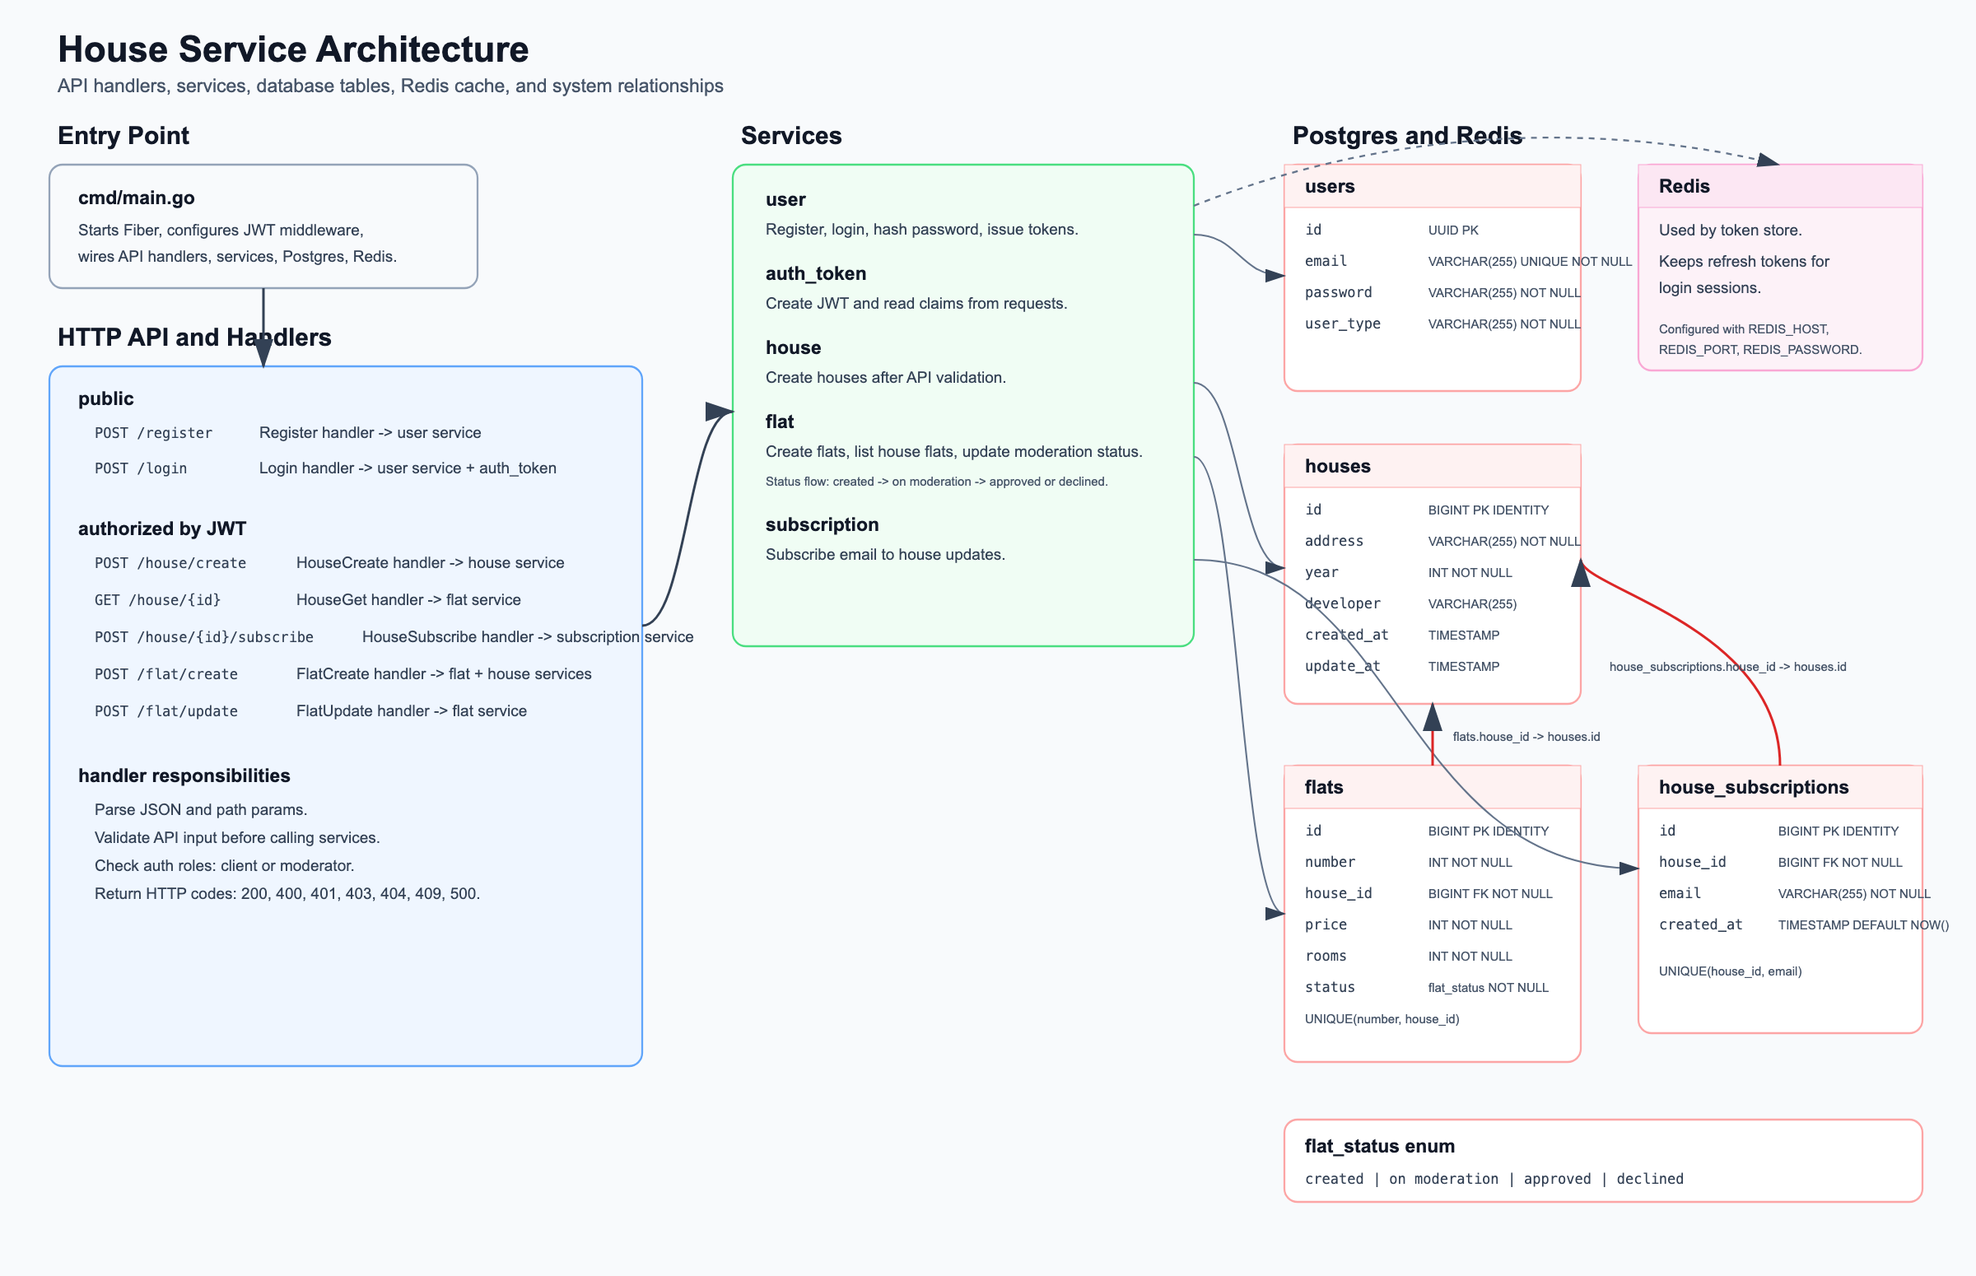
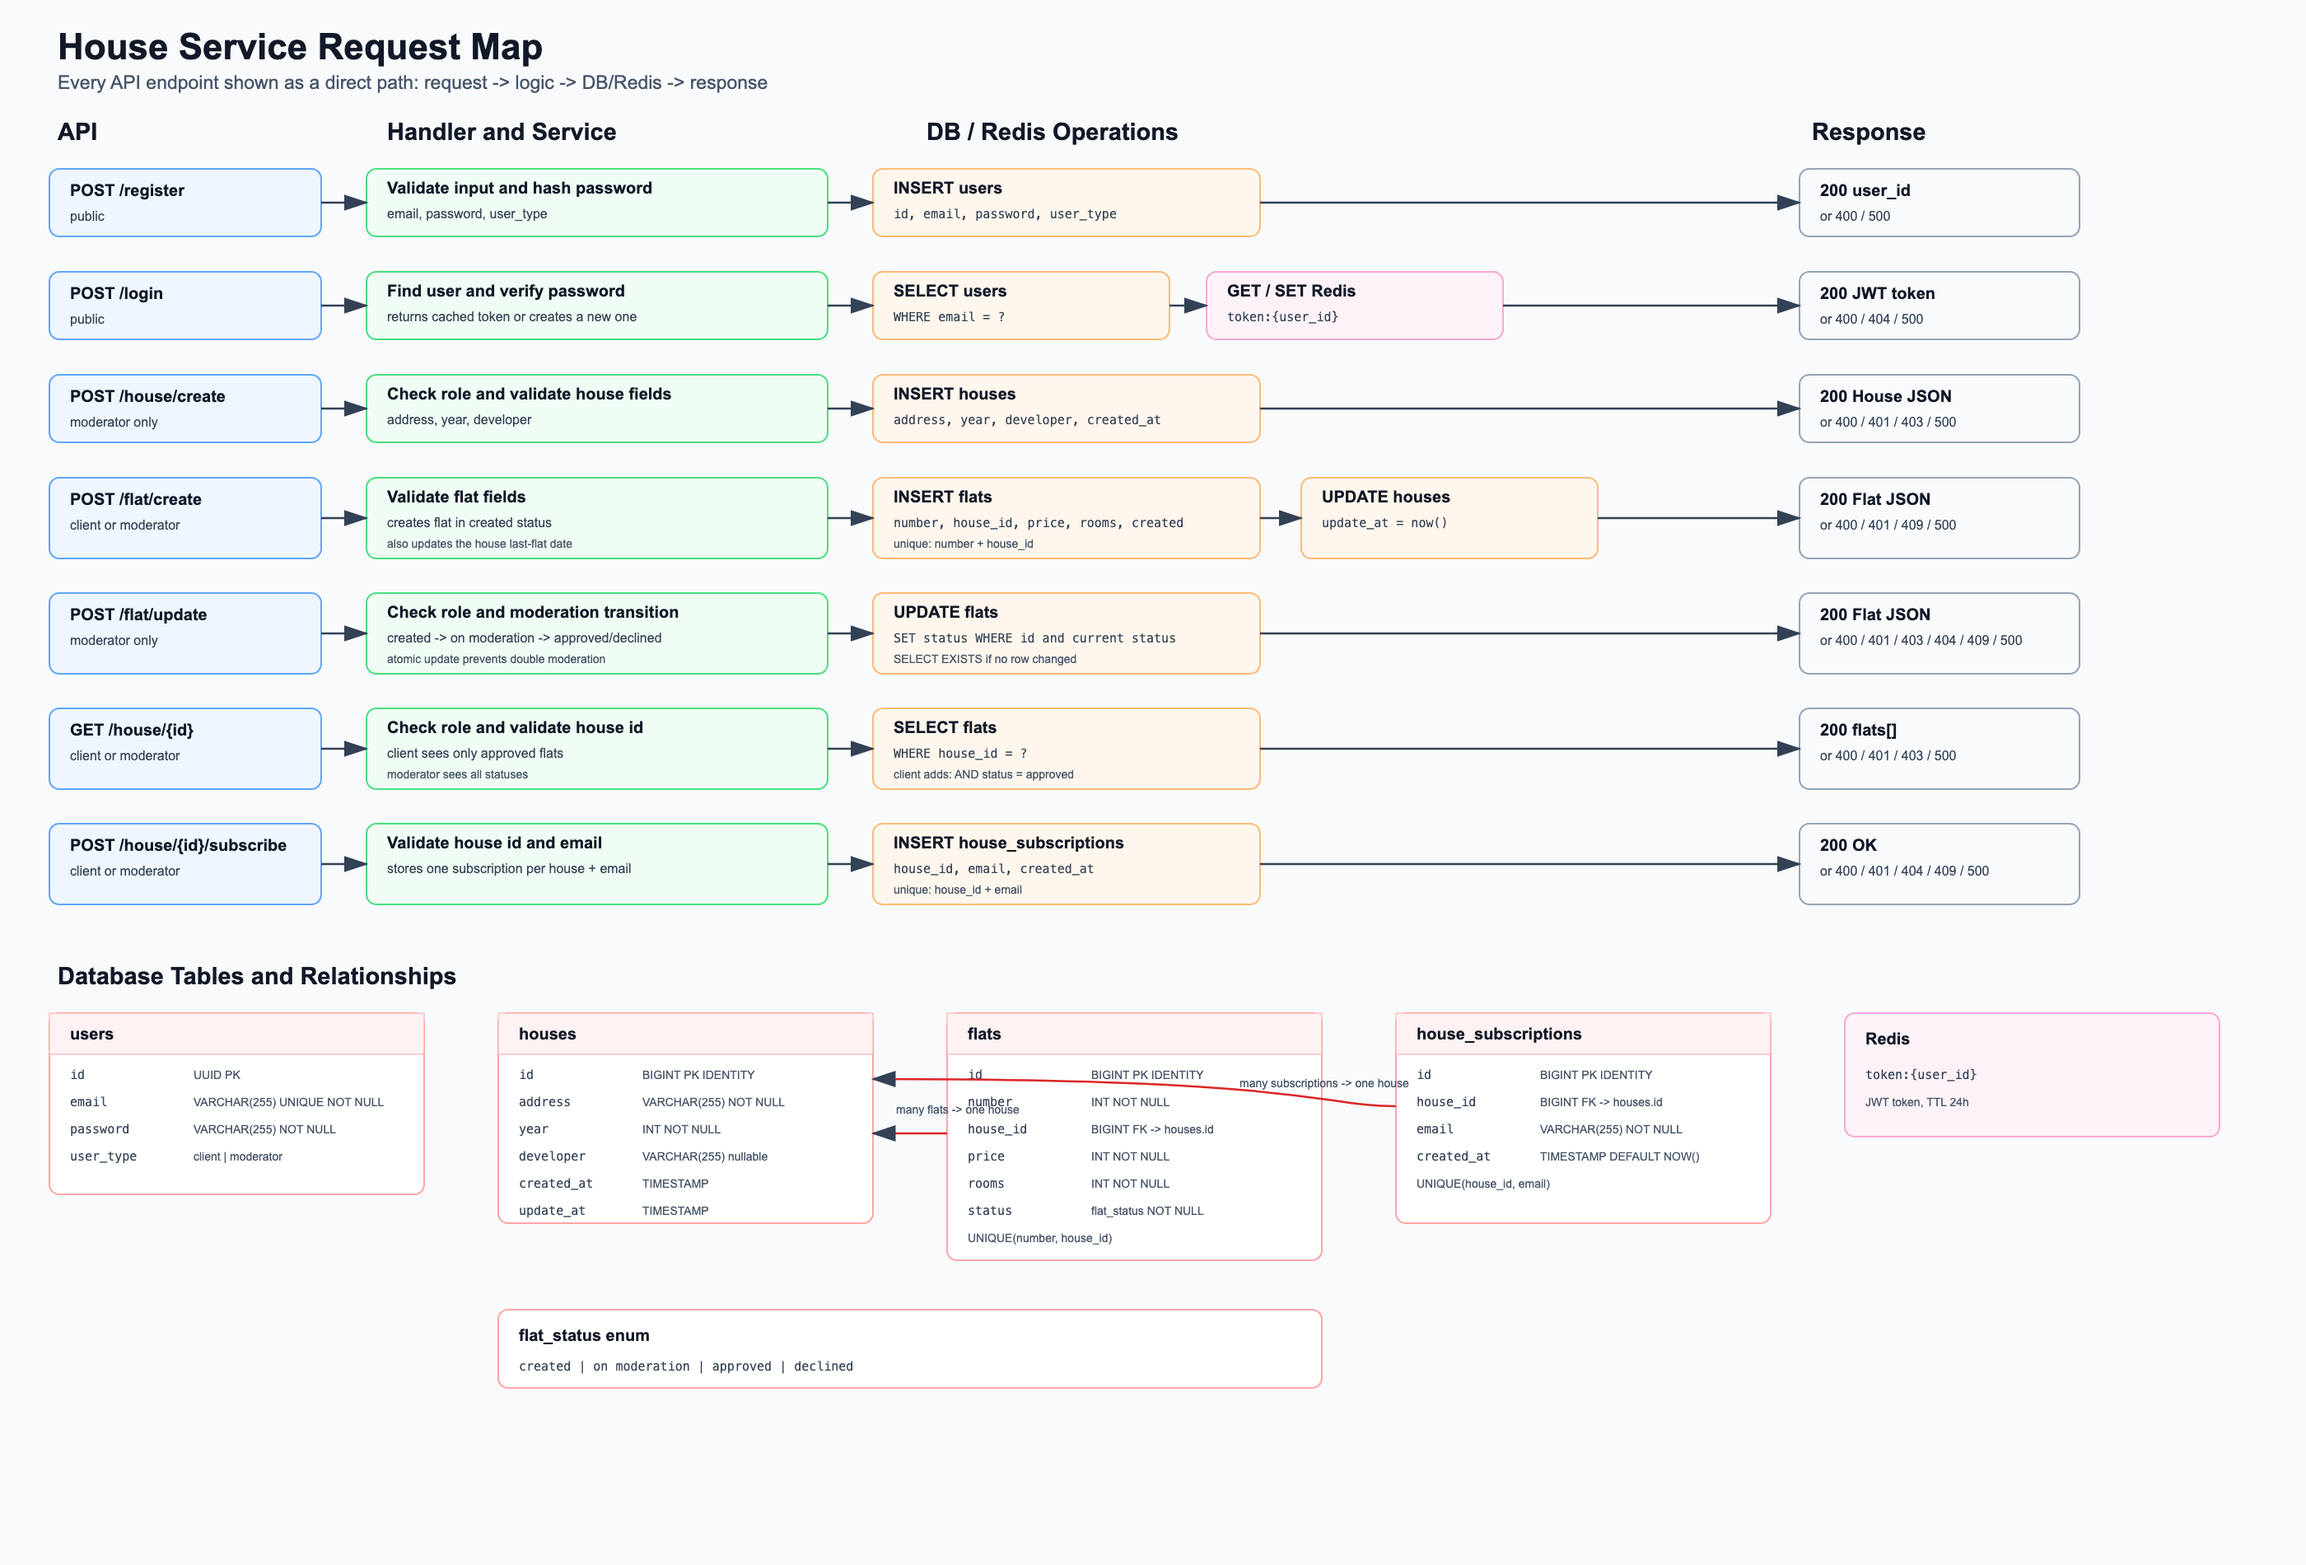
Update request map and model comments

diff --git a/internal/models/house.go b/internal/models/house.go
@@ -1,16 +1,16 @@
 package models
 
-type HouseID int // House identifier.
+type HouseID int // Идентификатор дома.
 
 func (h HouseID) Int() int {
 	return int(h)
 }
 
 type House struct {
-	ID        HouseID `db:"id"         example:"12345"`                           // House identifier.
-	Address   string  `db:"address"    example:"Лесная улица, 7, Москва, 125196"` // House address.
-	Year      int     `db:"year"       example:"2000"`                            // House construction year.
-	Developer *string `db:"developer"  example:"Мэрия города"`                    // House developer.
-	CreatedAt *string `db:"created_at" example:"2017-07-21T17:32:28Z"`            // House creation date.
-	UpdateAt  *string `db:"update_at"  example:"2017-07-21T17:32:28Z"`            // Date when a flat was last added to the house.
+	ID        HouseID `db:"id"         example:"12345"`                           // Идентификатор дома.
+	Address   string  `db:"address"    example:"Лесная улица, 7, Москва, 125196"` // Адрес дома.
+	Year      int     `db:"year"       example:"2000"`                            // Год постройки дома.
+	Developer *string `db:"developer"  example:"Мэрия города"`                    // Застройщик дома.
+	CreatedAt *string `db:"created_at" example:"2017-07-21T17:32:28Z"`            // Дата создания дома.
+	UpdateAt  *string `db:"update_at"  example:"2017-07-21T17:32:28Z"`            // Дата последнего добавления квартиры в дом.
 }

diff --git a/internal/models/flat.go b/internal/models/flat.go
@@ -1,6 +1,6 @@
 package models
 
-type Status string // Flat moderation status.
+type Status string // Статус модерации квартиры.
 
 func (s Status) String() string {
 	return string(s)
@@ -14,10 +14,10 @@ const (
 )
 
 type Flat struct {
-	ID      int     `db:"id"       example:"123456"`  // Flat identifier.
-	Number  int     `db:"number"   example:"12345"`   // Flat number inside the house.
-	HouseID HouseID `db:"house_id" example:"12345"`   // House identifier linked to the flat.
-	Price   int     `db:"price"    example:"10000"`   // Flat price in conventional units.
-	Rooms   int     `db:"rooms"    example:"4"`       // Number of rooms in the flat.
-	Status  Status  `db:"status"   example:"created"` // Flat moderation status.
+	ID      int     `db:"id"       example:"123456"`  // Идентификатор квартиры.
+	Number  int     `db:"number"   example:"12345"`   // Номер квартиры внутри дома.
+	HouseID HouseID `db:"house_id" example:"12345"`   // Идентификатор дома, к которому относится квартира.
+	Price   int     `db:"price"    example:"10000"`   // Цена квартиры в условных единицах.
+	Rooms   int     `db:"rooms"    example:"4"`       // Количество комнат в квартире.
+	Status  Status  `db:"status"   example:"created"` // Статус модерации квартиры.
 }

diff --git a/internal/models/user.go b/internal/models/user.go
@@ -11,10 +11,10 @@ const (
 )
 
 type User struct {
-	ID       string `db:"user_id"   example:"123e4567-e89b-12d3-a456-426655440000"` // User identifier.
-	Email    string `db:"email"     example:"ivanov@mail.ru"`                       // User email.
-	Password string `db:"password"  example:"qwerty"`                               // User password hash.
-	UserType string `db:"user_type" example:"client"`                               // User type.
+	ID       string `db:"user_id"   example:"123e4567-e89b-12d3-a456-426655440000"` // Идентификатор пользователя.
+	Email    string `db:"email"     example:"ivanov@mail.ru"`                       // Почта пользователя.
+	Password string `db:"password"  example:"qwerty"`                               // Хеш пароля пользователя.
+	UserType string `db:"user_type" example:"client"`                               // Тип пользователя.
 }
 
 func (u *User) IsClient() bool {
